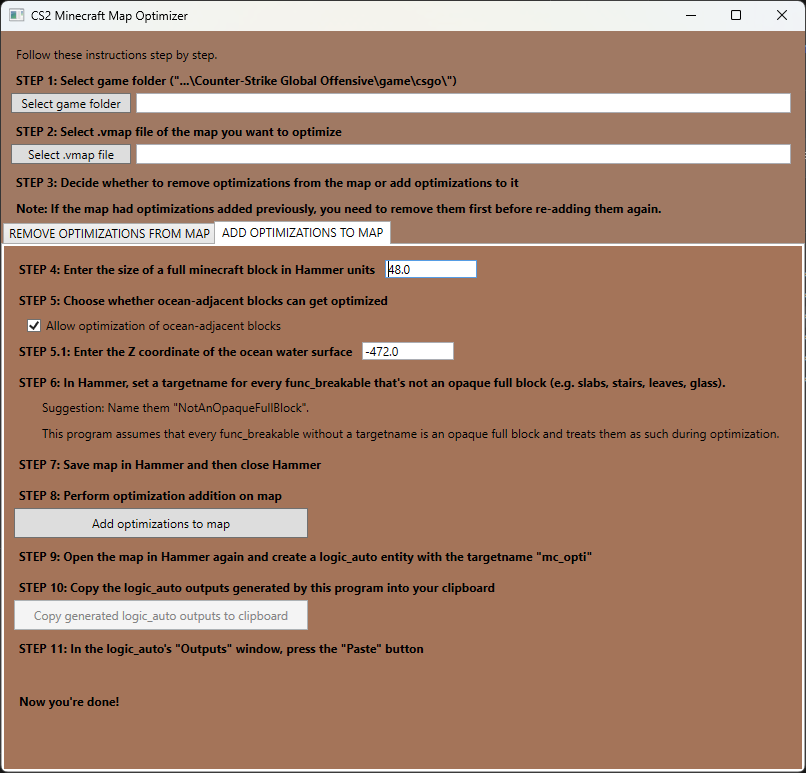
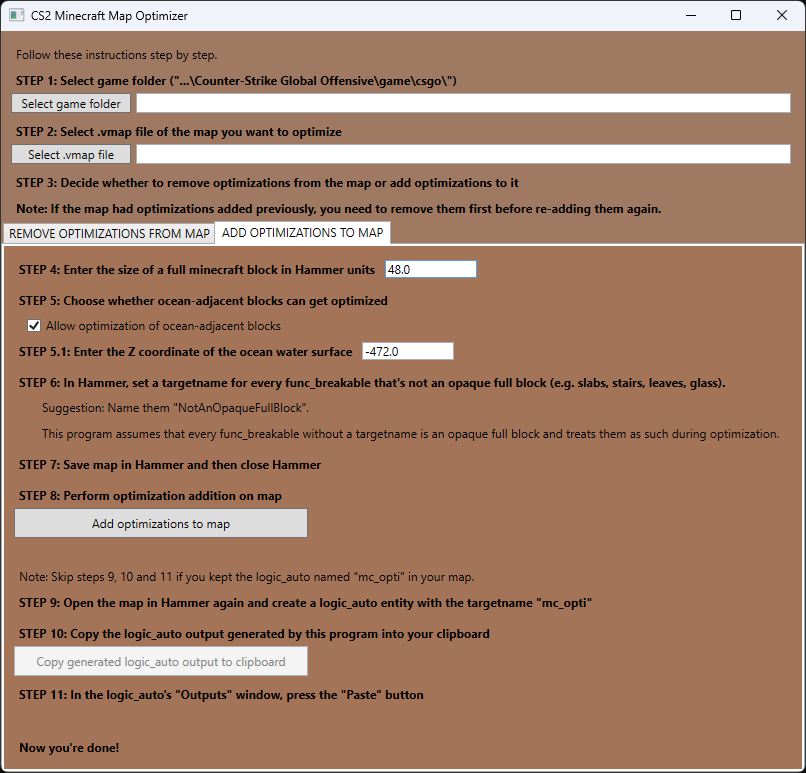
V2: Hide all hidden blocks on round start using targetname wildcard Previously, a logic_auto with ~2000 outputs had to hide every single hidden block separately. This caused Hammer stalls. Now the logic_auto has a single output that targets all hidden blocks by using a wildcard.

Changed region(s): [[0.0, 0.7141, 0.7444, 0.9314], [0.031, 0.9625, 0.1551, 0.9935]]

diff --git a/MainWindow.xaml b/MainWindow.xaml
@@ -19,7 +19,8 @@
                     <Label Content="STEP 5: Perform optimization removal on map" HorizontalAlignment="Left" Margin="10,41,0,0" VerticalAlignment="Top" FontWeight="Bold"/>
                     <Button x:Name="RemoveOptiButton" Content="Remove optimizations from map" HorizontalAlignment="Left" Margin="10,67,0,0" VerticalAlignment="Top" Height="30" Width="294" Click="RemoveOptiButton_Click"/>
                     <Label Content="STEP 6: Open the map in Hammer again and delete the logic__auto named &quot;mc__opti&quot;" HorizontalAlignment="Left" Margin="10,102,0,0" VerticalAlignment="Top" FontWeight="Bold"/>
-                    <Label Content="Now you're done!" HorizontalAlignment="Left" Margin="10,146,0,0" VerticalAlignment="Top" FontWeight="Bold"/>
+                    <Label Content="Now you're done!" HorizontalAlignment="Left" Margin="10,179,0,0" VerticalAlignment="Top" FontWeight="Bold"/>
+                    <Label Content="Note: You can skip this step and keep the logic__auto if you're going to re-add optimizations right after this." HorizontalAlignment="Left" Margin="28,128,0,0" VerticalAlignment="Top"/>
                 </Grid>
             </TabItem>
             <TabItem x:Name="AddOptiTabItem" Header="ADD OPTIMIZATIONS TO MAP">
@@ -39,11 +40,12 @@
                     <Label Content="STEP 7: Save map in Hammer and then close Hammer" HorizontalAlignment="Left" Margin="10,205,0,0" VerticalAlignment="Top" FontWeight="Bold" AutomationProperties.IsRequiredForForm="True"/>
                     <Label Content="STEP 8: Perform optimization addition on map" HorizontalAlignment="Left" Margin="10,236,0,0" VerticalAlignment="Top" FontWeight="Bold" AutomationProperties.IsRequiredForForm="True"/>
                     <Button x:Name="AddOptiButton" Content="Add optimizations to map" HorizontalAlignment="Left" Margin="10,262,0,0" VerticalAlignment="Top" Height="30" Width="294" Click="AddOptiButton_Click"/>
-                    <Label Content="STEP 9: Open the map in Hammer again and create a logic__auto entity with the targetname &quot;mc__opti&quot;" HorizontalAlignment="Left" Margin="10,297,0,0" VerticalAlignment="Top" FontWeight="Bold" AutomationProperties.IsRequiredForForm="True"/>
-                    <Label Content="STEP 10: Copy the logic__auto outputs generated by this program into your clipboard" HorizontalAlignment="Left" Margin="10,328,0,0" VerticalAlignment="Top" FontWeight="Bold" AutomationProperties.IsRequiredForForm="True"/>
-                    <Button x:Name="CopyOutputsToClipboardButton" Content="Copy generated logic__auto outputs to clipboard" HorizontalAlignment="Left" Margin="10,354,0,0" VerticalAlignment="Top" Height="30" Width="294" Click="CopyOutputsToClipboardButton_Click"/>
-                    <Label Content="STEP 11: In the logic__auto's &quot;Outputs&quot; window, press the &quot;Paste&quot; button" HorizontalAlignment="Left" Margin="10,389,0,0" VerticalAlignment="Top" FontWeight="Bold" AutomationProperties.IsRequiredForForm="True"/>
-                    <Label Content="Now you're done!" HorizontalAlignment="Left" Margin="10,442,0,0" VerticalAlignment="Top" FontWeight="Bold"/>
+                    <Label Content="STEP 9: Open the map in Hammer again and create a logic__auto entity with the targetname &quot;mc__opti&quot;" HorizontalAlignment="Left" Margin="10,343,0,0" VerticalAlignment="Top" FontWeight="Bold" AutomationProperties.IsRequiredForForm="True"/>
+                    <Label Content="STEP 10: Copy the logic__auto output generated by this program into your clipboard" HorizontalAlignment="Left" Margin="10,374,0,0" VerticalAlignment="Top" FontWeight="Bold" AutomationProperties.IsRequiredForForm="True"/>
+                    <Button x:Name="CopyOutputsToClipboardButton" Content="Copy generated logic__auto output to clipboard" HorizontalAlignment="Left" Margin="10,400,0,0" VerticalAlignment="Top" Height="30" Width="294" Click="CopyOutputsToClipboardButton_Click"/>
+                    <Label Content="STEP 11: In the logic__auto's &quot;Outputs&quot; window, press the &quot;Paste&quot; button" HorizontalAlignment="Left" Margin="10,435,0,0" VerticalAlignment="Top" FontWeight="Bold" AutomationProperties.IsRequiredForForm="True"/>
+                    <Label Content="Now you're done!" HorizontalAlignment="Left" Margin="10,488,0,0" VerticalAlignment="Top" FontWeight="Bold"/>
+                    <Label Content="Note: Skip steps 9, 10 and 11 if you kept the logic__auto named &quot;mc__opti&quot; in your map." HorizontalAlignment="Left" Margin="10,317,0,0" VerticalAlignment="Top"/>
 
                 </Grid>
             </TabItem>

diff --git a/Optimizer.cs b/Optimizer.cs
@@ -18,6 +18,8 @@ namespace CS2MinecraftMapOptimizer
     public static class Optimizer
     {
         public const string NAME_PREFIX = "mc_opti_";
+        public const string NAME_WITH_WILDCARD = "mc_opti_*"; // Targets all entities with this name prefix
+
 
         // ---- DATA FROM _ADDING_ OPTIMIZATIONS TO THE MAP ----
 
@@ -634,25 +636,19 @@ namespace CS2MinecraftMapOptimizer
         {
             string connections = "";
 
-            foreach (MCBlock block in blocks)
-            {
-                if (!block.hiddenOnRoundStart)
-                    continue;
-
-                connections +=
-                    "\t\t{\r\n" +
-                    "\t\t\tsourceEntity = \"\"\r\n" +
-                    "\t\t\toutput = \"OnMapSpawn\"\r\n" +
-                    "\t\t\ttargetEntity = \"" + block.targetname + "\"\r\n" +
-                    "\t\t\tinput = \"Alpha\"\r\n" +
-                    "\t\t\tparam = \"0\"\r\n" +
-                    "\t\t\tioTargetType = \"ENTITY_IO_TARGET_ENTITYNAME_OR_CLASSNAME\"\r\n" +
-                    "\t\t\tdelay = 0.0\r\n" +
-                    "\t\t\ttimesToFire = -1\r\n" +
-                    "\t\t\trelayConnection = false\r\n" +
-                    "\t\t\tfromGlobalRelay = false\r\n" +
-                    "\t\t},\r\n";
-            }
+            connections +=
+                "\t\t{\r\n" +
+                "\t\t\tsourceEntity = \"\"\r\n" +
+                "\t\t\toutput = \"OnMapSpawn\"\r\n" +
+                "\t\t\ttargetEntity = \"" + NAME_WITH_WILDCARD + "\"\r\n" + // Target all hidden blocks (We generated a name for them)
+                "\t\t\tinput = \"Alpha\"\r\n" +
+                "\t\t\tparam = \"0\"\r\n" +
+                "\t\t\tioTargetType = \"ENTITY_IO_TARGET_ENTITYNAME_OR_CLASSNAME\"\r\n" +
+                "\t\t\tdelay = 0.0\r\n" +
+                "\t\t\ttimesToFire = -1\r\n" +
+                "\t\t\trelayConnection = false\r\n" +
+                "\t\t\tfromGlobalRelay = false\r\n" +
+                "\t\t},\r\n";
 
             string kv3_output =
                 "<!-- kv3 encoding:text:version{e21c7f3c-8a33-41c5-9977-a76d3a32aa0d} " +

diff --git a/README.md b/README.md
@@ -1,6 +1,6 @@
 ## CS2 Minecraft Map Optimizer
 
-Made for [Lillykyu's Minecraft-themed Counter-Strike 2 map](https://steamcommunity.com/sharedfiles/filedetails/?id=3172495446). That map has over 8000 "blocks" (func_breakable entities) pushing the game engine to the limit.
+Made for [Lillykyu's Minecraft-themed Counter-Strike 2 map](https://steamcommunity.com/sharedfiles/filedetails/?id=3186779271). That map has over 8000 "blocks" (func_breakable entities) pushing the game engine to the limit.
 
 This tool was an attempt to improve the game client's FPS by hiding some of the inner blocks of the map that are obstructed by the outermost block layer.
 
